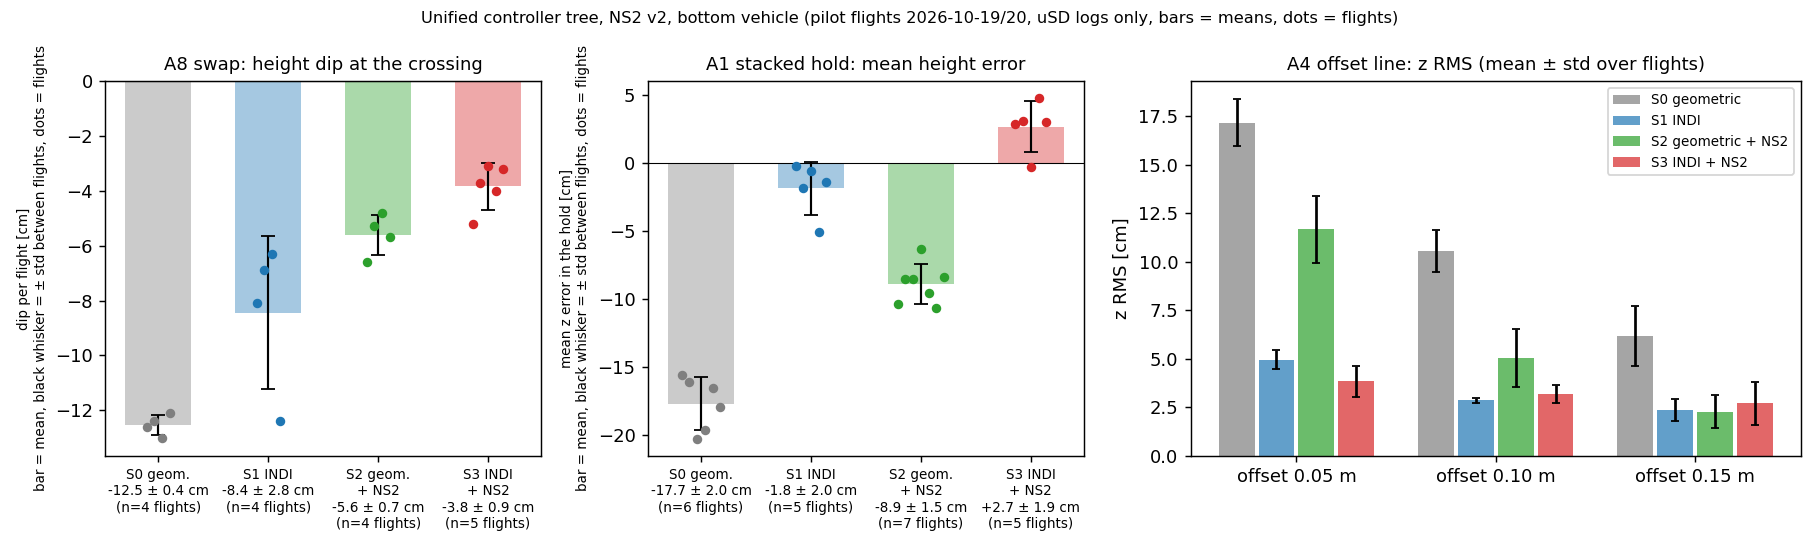
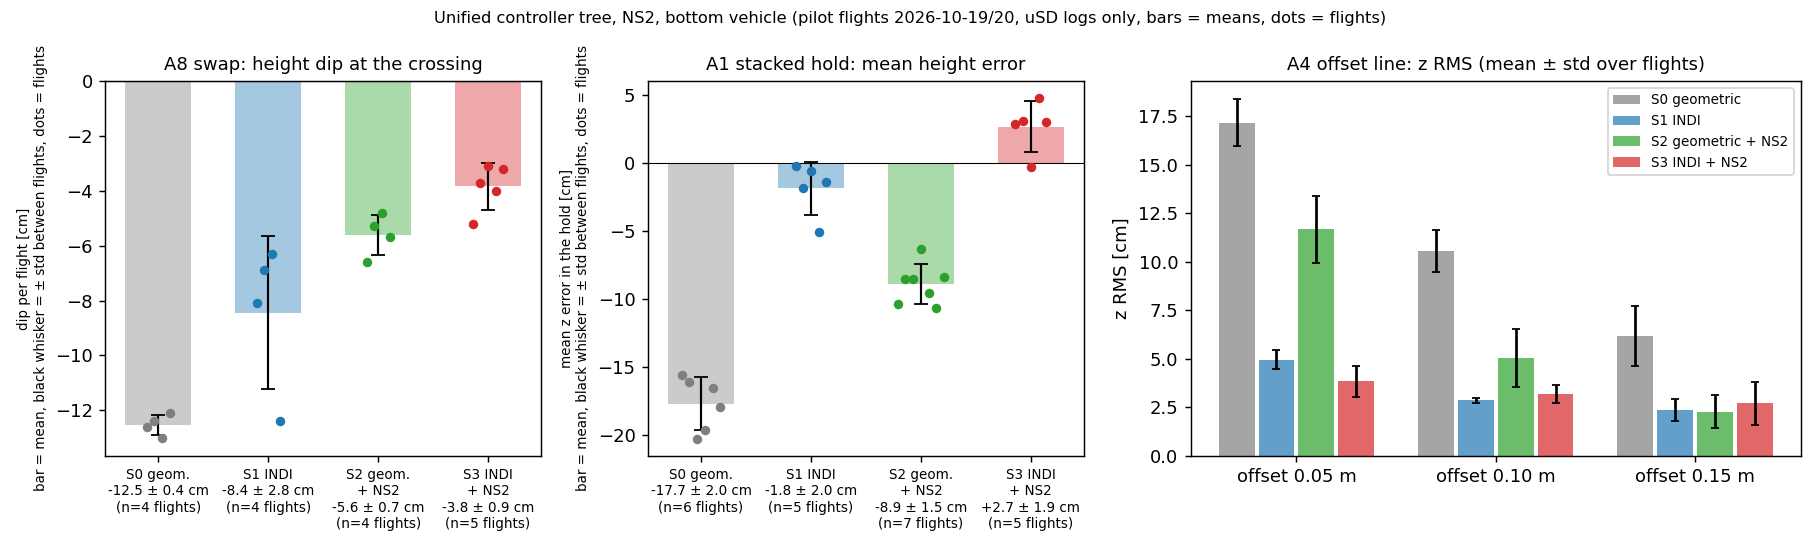
Meeting doc: NS2 without v2 label, gate explained (our implementation, values ours)

Changed region(s): [[0.2154, 0.0, 0.7692, 0.0623]]

diff --git a/experiments/analysis/build_meeting_results.py b/experiments/analysis/build_meeting_results.py
@@ -25,16 +25,16 @@ Deadline: 26 Feb 2027 (~18 weeks left)
 - **A8 crossing dip:** {f(a8['S0']['mean'])} → {f(a8['S1']['mean'])} → {f(a8['S2']['mean'])} → {f(a8['S3']['mean'])} cm for S0 → S1 → S2 → S3.
 - **A1 hold, mean z error:** {f(a1['S0']['mean'])}, {f(a1['S1']['mean'])}, {f(a1['S2']['mean'])}, {f(a1['S3']['mean'], True)} cm.
 - **A4 (new):** the geometric controllers depend strongly on how far the drones are offset sideways, INDI hardly at all; NS2 cuts the geometric error by a third to two thirds.
-- **NS2 v2:** retrained on 73 flights (about 19 min inside the gate), runs in C at 526 µs per evaluation.
+- **NS2:** the neural network, retrained on 73 flights (about 19 min inside the gate, see section 5), runs in C at 526 µs per evaluation.
 - **INDI is battery-sensitive:** the S1 flights on low batteries (3.4 V loaded) were clearly worse.
-- **Data:** {a8n + a1n + a4n} pilot flights in the tables (A8 {a8n}, A1 {a1n}, A4 {a4n}), each with complete uSD logs of both drones; strategy and NS2 version of every flight checked from the logs. A bug found on the way (uSD card full at 100 files made the drones reset at landing) is fixed.
+- **Data:** {a8n + a1n + a4n} pilot flights in the tables (A8 {a8n}, A1 {a1n}, A4 {a4n}), each with complete uSD logs of both drones; strategy of every flight checked from the logs. A bug found on the way (uSD card full at 100 files made the drones reset at landing) is fixed.
 
 Notation: `z` = measured height, `z_cmd` = commanded height, `e_z = z − z_cmd` (positive = too high). A8 = two drones swap sides (4 crossings), A1 = stacked hold (15 s), A4 = bottom drone shuttles along a line beside the stack (offset 0.05 / 0.10 / 0.15 m). Bottom vehicle, dz 0.5 m, 0.5 m/s, uSD logs only, n = flights.
 
 ---
 
 ## 1. The four strategies at a glance
-| | INDI | NS2 v2 | A8 crossing dip | A1 mean z error | A4 z RMS, offset 0.05 m |
+| | INDI | NS2 | A8 crossing dip | A1 mean z error | A4 z RMS, offset 0.05 m |
 |---|---|---|---|---|---|
 | S0 geometric | off | off | {f(a8['S0']['mean'])} cm (n={a8['S0']['n']}) | {f(a1['S0']['mean'])} cm (n={a1['S0']['n']}) | {c('S0','0.05')} |
 | S1 INDI | on | off | {f(a8['S1']['mean'])} cm (n={a8['S1']['n']}) | {f(a1['S1']['mean'])} cm (n={a1['S1']['n']}) | {c('S1','0.05')} |
@@ -93,17 +93,18 @@ old_fbl = []
 _ = [l for l in tail.split("\n") if l.startswith("- **FBL controller follow-up questions/missing parts:**")]
 if old_fbl:
     tail = tail.replace(old_fbl[0], "- **FBL controller (part of the study):** desk part of the port done (own fit, simulation, C code tested against the authors' code, firmware branch built, not flown yet); waiting for the authors' training script and flight gains")
-tail = """## 5. NS2 v2: what was flown
-- All flights together (73), geometric controller, labels from the deck RPM. Gate: upper drone above and within 0.2 m in x and y, where the network acts.
+tail = """## 5. NS2: training data
+- All 73 flights together, flown with the geometric controller, labels from the deck RPM.
+- **The gate (our own implementation, `ns2_residual.c` in our firmware):** the network only acts, and only trains on data, when a neighbour is above and close: |dx| < 0.2 m, |dy| < 0.2 m, |relative vx| < 1.5 m/s. Outside, its output is zero. Why: the downwash only matters when the other drone is right above; the reference (Neural-Swarm) also filters by a horizontal distance, the values here are ours. Crazyswarm2 / the simulator have no such gate.
 
 """ + (REPO / "experiments/results/ns2_v2_data_summary.md").read_text().strip().replace("## 5. NS2 v2: what was flown\n", "") + """
 
-![NS2 v2 data: gate time per scenario (left), coverage of vertical gap and horizontal offset (right)](assets/2026-10-19/ns2_v2_data.png)
+![NS2 training data: gate time per scenario (left), coverage of vertical gap and horizontal offset (right)](assets/2026-10-19/ns2_v2_data.png)
 
 - **Left:** seconds inside the gate per scenario. R1, A9, A2, A1 give most of it.
 - **Right:** seconds of data per cell, horizontal offset (x) against vertical gap (y). Dashed lines = study gaps 0.25 / 0.5 / 0.75 m; red dotted = gate edge (±20 cm in x and y, corners reach 28 cm).
 - Vertical gap in the gate: median 0.62 m; horizontal offset: median 0.09 m.
-- Leave-one-flight-out: 69 of 73 flights pass; new flights fit better than v1 on 47 of 47.
+- Leave-one-flight-out: 69 of 73 flights pass.
 
 ---
 

diff --git a/experiments/analysis/unified_overview.py b/experiments/analysis/unified_overview.py
@@ -54,4 +54,4 @@ for j, s in enumerate(ORDER):
         if d["n"]: xs.append(oi + (j - 1.5) * w); ys.append(d["mean"]); es.append(d["std"])
     ax[2].bar(xs, ys, width=w * .9, color=COL[s], alpha=.7, yerr=es, capsize=2, label=LAB[s])
 ax[2].set_xticks(range(3)); ax[2].set_xticklabels(["offset 0.05 m", "offset 0.10 m", "offset 0.15 m"]); ax[2].set_ylabel("z RMS [cm]"); ax[2].set_title("A4 offset line: z RMS (mean ± std over flights)", fontsize=10); ax[2].legend(fontsize=7.5)
-fig.suptitle("Unified controller tree, NS2 v2, bottom vehicle (pilot flights 2026-10-19/20, uSD logs only, bars = means, dots = flights)", fontsize=9); fig.tight_layout(); fig.savefig(REPO / "docs/meetings/assets/2026-10-19/overview.png", dpi=130)
+fig.suptitle("Unified controller tree, NS2, bottom vehicle (pilot flights 2026-10-19/20, uSD logs only, bars = means, dots = flights)", fontsize=9); fig.tight_layout(); fig.savefig(REPO / "docs/meetings/assets/2026-10-19/overview.png", dpi=130)

diff --git a/docs/meetings/2026-10-22.md b/docs/meetings/2026-10-22.md
@@ -8,16 +8,16 @@ Deadline: 26 Feb 2027 (~18 weeks left)
 - **A8 crossing dip:** −12.5 → −8.4 → −5.6 → −3.8 cm for S0 → S1 → S2 → S3.
 - **A1 hold, mean z error:** −17.7, −1.8, −8.9, +2.7 cm.
 - **A4 (new):** the geometric controllers depend strongly on how far the drones are offset sideways, INDI hardly at all; NS2 cuts the geometric error by a third to two thirds.
-- **NS2 v2:** retrained on 73 flights (about 19 min inside the gate), runs in C at 526 µs per evaluation.
+- **NS2:** the neural network, retrained on 73 flights (about 19 min inside the gate, see section 5), runs in C at 526 µs per evaluation.
 - **INDI is battery-sensitive:** the S1 flights on low batteries (3.4 V loaded) were clearly worse.
-- **Data:** 76 pilot flights in the tables (A8 17, A1 23, A4 36), each with complete uSD logs of both drones; strategy and NS2 version of every flight checked from the logs. A bug found on the way (uSD card full at 100 files made the drones reset at landing) is fixed.
+- **Data:** 76 pilot flights in the tables (A8 17, A1 23, A4 36), each with complete uSD logs of both drones; strategy of every flight checked from the logs. A bug found on the way (uSD card full at 100 files made the drones reset at landing) is fixed.
 
 Notation: `z` = measured height, `z_cmd` = commanded height, `e_z = z − z_cmd` (positive = too high). A8 = two drones swap sides (4 crossings), A1 = stacked hold (15 s), A4 = bottom drone shuttles along a line beside the stack (offset 0.05 / 0.10 / 0.15 m). Bottom vehicle, dz 0.5 m, 0.5 m/s, uSD logs only, n = flights.
 
 ---
 
 ## 1. The four strategies at a glance
-| | INDI | NS2 v2 | A8 crossing dip | A1 mean z error | A4 z RMS, offset 0.05 m |
+| | INDI | NS2 | A8 crossing dip | A1 mean z error | A4 z RMS, offset 0.05 m |
 |---|---|---|---|---|---|
 | S0 geometric | off | off | −12.5 cm (n=4) | −17.7 cm (n=6) | 17.2 cm (n=3) |
 | S1 INDI | on | off | −8.4 cm (n=4) | −1.8 cm (n=5) | 5.0 cm (n=3) |
@@ -73,8 +73,9 @@ z RMS in cm, mean ± std over flights (n):
 - INDI keeps the error at 3–5 cm at every offset; at 0.15 m all strategies except S0 are at 2–3 cm.
 - Offset 0.0 was dropped (it repeats A1 and A8).
 
-## 5. NS2 v2: what was flown
-- All flights together (73), geometric controller, labels from the deck RPM. Gate: upper drone above and within 0.2 m in x and y, where the network acts.
+## 5. NS2: training data
+- All 73 flights together, flown with the geometric controller, labels from the deck RPM.
+- **The gate (our own implementation, `ns2_residual.c` in our firmware):** the network only acts, and only trains on data, when a neighbour is above and close: |dx| < 0.2 m, |dy| < 0.2 m, |relative vx| < 1.5 m/s. Outside, its output is zero. Why: the downwash only matters when the other drone is right above; the reference (Neural-Swarm) also filters by a horizontal distance, the values here are ours. Crazyswarm2 / the simulator have no such gate.
 
 | Scenario | What it is | Settings covered | Flights | Flight time | Time in the NS2 gate |
 |---|---|---|---|---|---|
@@ -90,12 +91,12 @@ z RMS in cm, mean ± std over flights (n):
 | A7 | upper drone descends through the lower one | gap 1.1 → 0.1 m | 3 | 0.6 min | 38 s |
 | **all** | | | **73** | **44.2 min** | **1162 s** |
 
-![NS2 v2 data: gate time per scenario (left), coverage of vertical gap and horizontal offset (right)](assets/2026-10-19/ns2_v2_data.png)
+![NS2 training data: gate time per scenario (left), coverage of vertical gap and horizontal offset (right)](assets/2026-10-19/ns2_v2_data.png)
 
 - **Left:** seconds inside the gate per scenario. R1, A9, A2, A1 give most of it.
 - **Right:** seconds of data per cell, horizontal offset (x) against vertical gap (y). Dashed lines = study gaps 0.25 / 0.5 / 0.75 m; red dotted = gate edge (±20 cm in x and y, corners reach 28 cm).
 - Vertical gap in the gate: median 0.62 m; horizontal offset: median 0.09 m.
-- Leave-one-flight-out: 69 of 73 flights pass; new flights fit better than v1 on 47 of 47.
+- Leave-one-flight-out: 69 of 73 flights pass.
 
 ---
 
